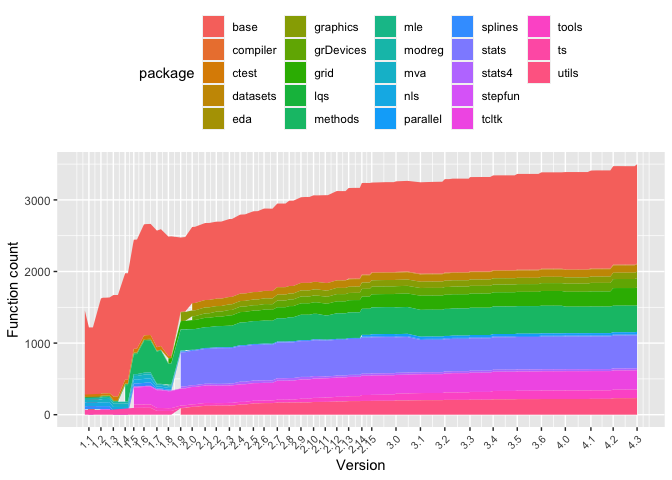
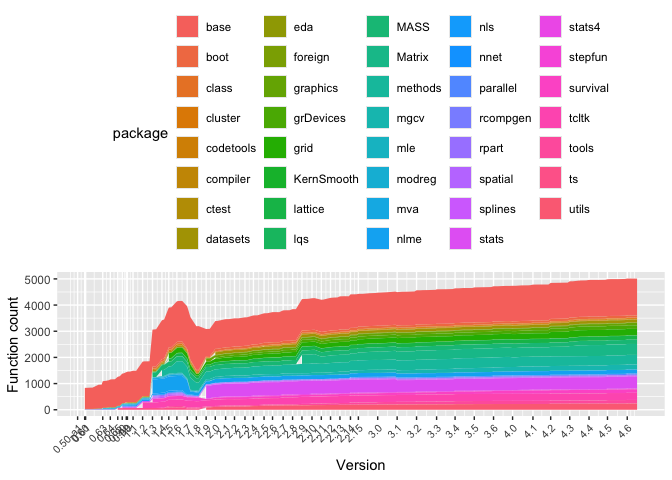
Update README

diff --git a/README.md b/README.md
@@ -3,13 +3,11 @@
 
 # rcheology
 
-[![AppVeyor build
-status](https://ci.appveyor.com/api/projects/status/github/hughjonesd/rcheology?branch=master&svg=true)](https://ci.appveyor.com/project/hughjonesd/rcheology)
-![runiverse-package
-badge](https://hughjonesd.r-universe.dev/badges/rcheology) [![CRAN
-status](https://www.r-pkg.org/badges/version/rcheology)](https://cran.r-project.org/package=rcheology)
-[![CRAN
-downloads](https://cranlogs.r-pkg.org/badges/rcheology)](https://cran.r-project.org/package=rcheology)
+<figure>
+<img src="https://hughjonesd.r-universe.dev/badges/rcheology"
+alt="runiverse-package badge" />
+<figcaption aria-hidden="true">runiverse-package badge</figcaption>
+</figure>
 
 A data package which lists every command in base R packages since R
 version 0.50.
@@ -31,11 +29,8 @@ install.packages('rcheology', repos = c('https://hughjonesd.r-universe.dev',
                     'https://cloud.r-project.org'))
 ```
 
-From CRAN:
-
-``` r
-install.packages('rcheology')
-```
+Note that **new rcheology versions are no longer published on CRAN**.
+The last version available on CRAN is 4.6.1.0, corresponding to R 4.6.1.
 
 ### Daily R snapshots
 
@@ -75,8 +70,10 @@ The `Rversions` data frame lists versions of R and release dates.
 
 ## Do it yourself
 
+- Clone this repository.
 - Install and start docker.
 - Run `host-run-on-evercran.sh`.
+- For more details see `update-package.R`
 
 ## The data
 
@@ -126,8 +123,8 @@ r_introduced <- anti_join(r_latest_obj, r_penult_obj, by = c("package", "name"))
 r_introduced
 #> # A tibble: 1 × 11
 #>   package name  Rversion status   priority type  exported hidden class S4generic
-#>   <chr>   <chr> <chr>    <chr>    <chr>    <chr> <lgl>    <lgl>  <chr> <lgl>
-#> 1 spatial topo  4.6.2    released recomme… list  FALSE    FALSE  data… FALSE
+#>   <chr>   <chr> <chr>    <chr>    <chr>    <chr> <lgl>    <lgl>  <chr> <lgl>    
+#> 1 spatial topo  4.6.2    released recomme… list  FALSE    FALSE  data… FALSE    
 #> # ℹ 1 more variable: args <chr>
 ```
 
@@ -175,7 +172,7 @@ ggplot(rch_dates, aes(date, group = package, fill = package), colour = NA) +
 #> (`stat_count()`).
 ```
 
-<img src="man/figures/README-unnamed-chunk-6-1.png" alt="" width="100%" />
+<img src="man/figures/README-unnamed-chunk-5-1.png" alt="" width="100%" />
 
 An alternative view:
 
@@ -193,4 +190,4 @@ ggplot(rch_dates, aes(date, fill = "orange")) +
 #> (`stat_count()`).
 ```
 
-<img src="man/figures/README-unnamed-chunk-7-1.png" alt="" width="100%" height="1000px" />
+<img src="man/figures/README-unnamed-chunk-6-1.png" alt="" width="100%" height="1000px" />
